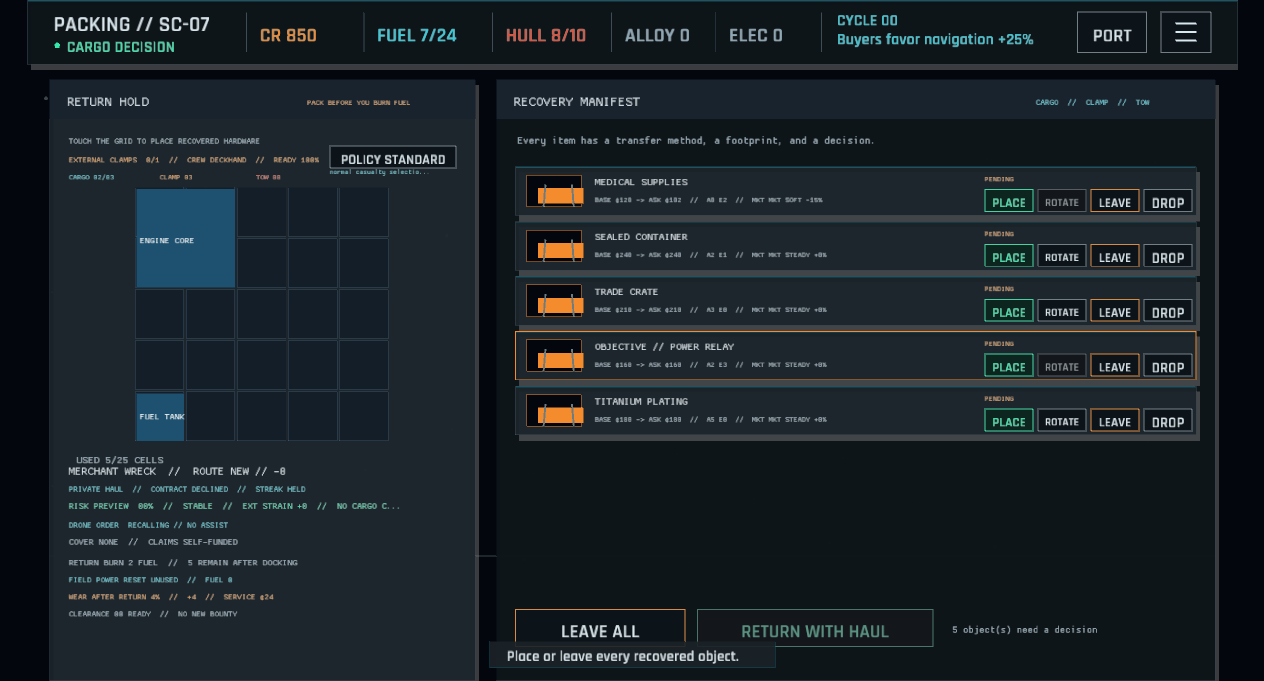
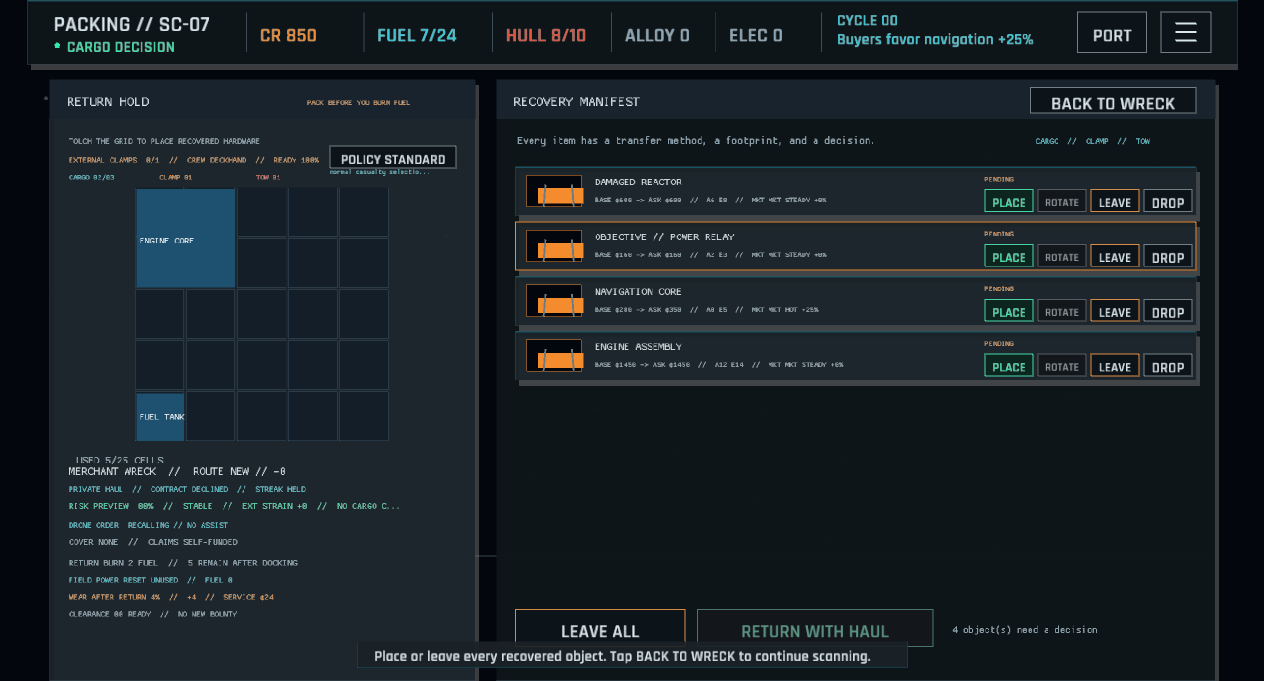
The manifest knows every mount, and the captain can turn back to the wreck (salvage roster and packing navigation)
The merchant wreck was advertising six candidate cargo items even though its physical sections contained four unique mounts, so scans and the recovery manifest told different stories. Align every site's manifest roster with its section targets, keep the full physical roster deterministic, and validate the invariant when authored content loads.\n\nAdd a visible BACK TO WRECK control to the packing manifest and route it back to the active salvage workspace, with touch-facing prompts for both directions. Refresh the affected capture scenes and verification screenshots. Formatting, all tests, strict all-target Clippy, and the parameterless publisher pass; Project Roost tracking remains unavailable at its local endpoint.

diff --git a/tests/state/session.rs b/tests/state/session.rs
@@ -14,12 +14,12 @@ fn new_game_has_a_valid_starter_layout_and_safe_economy() {
 }
 
 #[test]
-fn expedition_spends_fuel_and_generates_five_objects() {
+fn expedition_spends_fuel_and_generates_the_physical_wreck_roster() {
     let data = GameData::load().unwrap();
     let mut session = GameSession::new(&data);
     session.begin_expedition("merchant_wreck", &data).unwrap();
     assert_eq!(session.economy.fuel, 8);
-    assert_eq!(session.expedition.as_ref().unwrap().cargo.len(), 5);
+    assert_eq!(session.expedition.as_ref().unwrap().cargo.len(), 4);
 }
 
 #[test]
@@ -343,9 +343,9 @@ fn returned_external_cargo_count_matches_transfer_modes() {
 fn external_cargo_respects_clamp_capacity() {
     let data = GameData::load().unwrap();
     let mut session = GameSession::new(&data);
-    session.begin_expedition("merchant_wreck", &data).unwrap();
-    session.auto_place("sealed_container", &data).unwrap();
-    assert!(session.auto_place("trade_crate", &data).is_err());
+    session.begin_expedition("military_wreck", &data).unwrap();
+    session.auto_place("titanium_plating", &data).unwrap();
+    assert!(session.auto_place("military_crate", &data).is_err());
 }
 
 #[test]
@@ -626,10 +626,10 @@ fn revisiting_a_wreck_does_not_regenerate_removed_targets() {
 fn external_haul_raises_the_return_risk_preview() {
     let data = GameData::load().unwrap();
     let mut session = GameSession::new(&data);
-    session.begin_expedition("merchant_wreck", &data).unwrap();
+    session.begin_expedition("military_wreck", &data).unwrap();
     let before = session.expedition_risk_preview(&data).unwrap();
 
-    session.auto_place("sealed_container", &data).unwrap();
+    session.auto_place("titanium_plating", &data).unwrap();
 
     let after = session.expedition_risk_preview(&data).unwrap();
     assert_eq!(session.external_cargo_count(&data, None), 1);
@@ -643,29 +643,32 @@ fn external_haul_raises_the_return_risk_preview() {
 fn save_rejects_an_external_haul_over_clamp_capacity() {
     let data = GameData::load().unwrap();
     let mut session = GameSession::new(&data);
-    session.begin_expedition("merchant_wreck", &data).unwrap();
-    session.auto_place("sealed_container", &data).unwrap();
-    let trade_index = session
+    session.begin_expedition("military_wreck", &data).unwrap();
+    session.auto_place("titanium_plating", &data).unwrap();
+    let crate_index = session
         .expedition
         .as_ref()
         .unwrap()
         .cargo
         .iter()
-        .position(|cargo| cargo.object_id == "trade_crate")
+        .position(|cargo| cargo.object_id == "military_crate")
         .unwrap();
     session
         .ship_layout
         .place(
-            "cargo:trade_crate",
-            data.salvage_objects.get("trade_crate").unwrap().footprint,
-            GridPosition::new(2, 1),
+            "cargo:military_crate",
+            data.salvage_objects
+                .get("military_crate")
+                .unwrap()
+                .footprint,
+            GridPosition::new(3, 0),
             0,
             false,
         )
         .unwrap();
-    let trade = &mut session.expedition.as_mut().unwrap().cargo[trade_index];
-    trade.status = CargoStatus::Packed;
-    trade.position = Some(GridPosition::new(2, 1));
+    let crate_item = &mut session.expedition.as_mut().unwrap().cargo[crate_index];
+    crate_item.status = CargoStatus::Packed;
+    crate_item.position = Some(GridPosition::new(3, 0));
 
     let error = GameSession::from_save(session.to_save(&data.config.version), &data).unwrap_err();
 

diff --git a/src/game/capture/scenes/salvage.rs b/src/game/capture/scenes/salvage.rs
@@ -384,31 +384,6 @@ pub(super) fn prepare(game: &mut Game, scene: &str) -> GameState {
             game.session.briefing_voyage_plan = game.selected_voyage_plan;
             if let Some(progress) = game.session.site_progress.get_mut("merchant_wreck") {
                 progress.visits = 3;
-                progress.removed_targets = vec![
-                    "industrial_battery".to_owned(),
-                    "navigation_computer".to_owned(),
-                    "engine_assembly".to_owned(),
-                ];
-                progress.operation_log = vec![
-                    WorkspaceLogEntry::new(
-                        1,
-                        WorkspaceLogEvent::TargetRecovered,
-                        Some("cargo_bay"),
-                        Some("industrial_battery"),
-                    ),
-                    WorkspaceLogEntry::new(
-                        2,
-                        WorkspaceLogEvent::TargetRecovered,
-                        Some("cargo_bay"),
-                        Some("navigation_computer"),
-                    ),
-                    WorkspaceLogEntry::new(
-                        3,
-                        WorkspaceLogEvent::TargetRecovered,
-                        Some("cargo_bay"),
-                        Some("engine_assembly"),
-                    ),
-                ];
             }
             let _ = game.session.begin_expedition_with_plan(
                 "merchant_wreck",

diff --git a/src/data/validation.rs b/src/data/validation.rs
@@ -212,10 +212,8 @@ fn validate_sites(data: &GameData) -> Result<(), String> {
 
 fn validate_site(id: &str, site: &SiteData, data: &GameData) -> Result<(), String> {
     validate_site_overview(id, site, data)?;
-    if site.candidate_salvage.len() < 5 {
-        return Err(format!(
-            "site '{id}': needs at least five salvage candidates"
-        ));
+    if site.candidate_salvage.is_empty() {
+        return Err(format!("site '{id}': needs at least one salvage candidate"));
     }
     if site.sections.is_empty() {
         return Err(format!(
@@ -232,6 +230,23 @@ fn validate_site(id: &str, site: &SiteData, data: &GameData) -> Result<(), Strin
     }
     for section in &site.sections {
         validate_section(id, site, section, &section_ids, data)?;
+    }
+    validate_site_target_roster(id, site)?;
+    Ok(())
+}
+
+fn validate_site_target_roster(id: &str, site: &SiteData) -> Result<(), String> {
+    let manifest_targets: HashSet<&str> =
+        site.candidate_salvage.iter().map(String::as_str).collect();
+    let section_targets: HashSet<&str> = site
+        .sections
+        .iter()
+        .flat_map(|section| section.candidate_targets.iter().map(String::as_str))
+        .collect();
+    if manifest_targets != section_targets {
+        return Err(format!(
+            "site '{id}': manifest targets must match the physical section roster"
+        ));
     }
     Ok(())
 }

diff --git a/tests/engine/expedition.rs b/tests/engine/expedition.rs
@@ -2,6 +2,7 @@
 
 use crate::data::GameData;
 use crate::engine::expedition::generate_salvage;
+use std::collections::HashSet;
 
 #[test]
 fn contract_objective_is_always_in_the_generated_manifest() {
@@ -22,4 +23,20 @@ fn removed_targets_stay_out_of_future_manifests() {
     let manifest = generate_salvage(site, 7, &["industrial_battery".to_owned()]);
 
     assert!(!manifest.contains(&"industrial_battery".to_owned()));
+}
+
+#[test]
+fn generated_manifest_matches_every_physical_section_target() {
+    let data = GameData::load().unwrap();
+    for site in data.ordered_sites() {
+        let physical_targets: HashSet<&str> = site
+            .sections
+            .iter()
+            .flat_map(|section| section.candidate_targets.iter().map(String::as_str))
+            .collect();
+        let generated = generate_salvage(site, 7, &[]);
+        let manifest_targets: HashSet<&str> = generated.iter().map(String::as_str).collect();
+
+        assert_eq!(manifest_targets, physical_targets, "site {}", site.id);
+    }
 }

diff --git a/src/game/prompts.rs b/src/game/prompts.rs
@@ -10,8 +10,12 @@ pub fn state_prompt(state: GameState) -> &'static str {
             "Select a wreck. Tap Plan or Crew to cycle assignments, choose Insurance or Private haul, then Depart."
         }
         GameState::Travel => "Tap ARRIVE to enter the wreck workspace.",
-        GameState::SalvageWorkspace => "Tap SCAN or POWER CYCLE, then select a bracketed target.",
-        GameState::SalvagePacking => "Place or leave every recovered object.",
+        GameState::SalvageWorkspace => {
+            "Tap SCAN or POWER CYCLE, then select a bracketed target. Tap RETURN TO HOLD when done."
+        }
+        GameState::SalvagePacking => {
+            "Place or leave every recovered object. Tap BACK TO WRECK to continue scanning."
+        }
         GameState::ReturnTravel => "Tap DOCK NOW to enter the yard debrief.",
         GameState::Results => "Choose SELL, INSTALL, or BREAK DOWN.",
         GameState::Pause => "Tap RESUME to continue.",

diff --git a/tests/data/content.rs b/tests/data/content.rs
@@ -120,6 +120,22 @@ fn every_wreck_has_a_valid_contract_objective() {
 }
 
 #[test]
+fn every_wreck_manifest_matches_its_physical_target_roster() {
+    let data = GameData::load().unwrap();
+    for site in data.ordered_sites() {
+        let section_targets: std::collections::HashSet<&str> = site
+            .sections
+            .iter()
+            .flat_map(|section| section.candidate_targets.iter().map(String::as_str))
+            .collect();
+        let manifest_targets: std::collections::HashSet<&str> =
+            site.candidate_salvage.iter().map(String::as_str).collect();
+
+        assert_eq!(manifest_targets, section_targets, "site {}", site.id);
+    }
+}
+
+#[test]
 fn contract_targets_cannot_have_zero_payouts() {
     let mut data = GameData::load().unwrap();
     let mut site = data.sites.remove("merchant_wreck").unwrap();

diff --git a/src/engine/expedition.rs b/src/engine/expedition.rs
@@ -1,4 +1,4 @@
-//! Deterministic salvage selection from a site's data-defined candidate pool.
+//! Deterministic salvage selection from a site's data-defined physical roster.
 
 use crate::data::SiteData;
 
@@ -11,9 +11,8 @@ pub fn generate_salvage(site: &SiteData, seed: u64, removed_targets: &[String]) 
     if available.is_empty() {
         return Vec::new();
     }
-    let count = available.len().min(5);
     let start = (seed as usize) % available.len();
-    let mut generated: Vec<String> = (0..count)
+    let mut generated: Vec<String> = (0..available.len())
         .map(|index| available[(start + index) % available.len()].clone())
         .collect();
     if let Some(contract_target) = &site.contract_target {

diff --git a/src/ui/salvage_items/manifest.rs b/src/ui/salvage_items/manifest.rs
@@ -19,10 +19,19 @@ pub(super) fn draw_manifest(ctx: &UiContext<'_>, actions: &mut Vec<UiAction>) {
         18.0,
         visual_theme::text(),
     );
+    if button(
+        ctx,
+        Rect::new(manifest.right() - 196.0, manifest.y + 8.0, 176.0, 28.0),
+        &ctx.data.salvage_ui.back_to_wreck,
+        ctx.session.expedition.is_some(),
+        ButtonTone::Secondary,
+    ) {
+        actions.push(UiAction::ReturnToWorkspace);
+    }
     draw_text(
         "CARGO  //  CLAMP  //  TOW",
         manifest.right() - 190.0,
-        manifest.y + 27.0,
+        manifest.y + 68.0,
         11.0,
         visual_theme::cyan(),
     );

diff --git a/src/game/actions.rs b/src/game/actions.rs
@@ -175,6 +175,12 @@ impl Game {
                 }
                 Err(error) => self.note(error),
             },
+            UiAction::ReturnToWorkspace => {
+                if self.state == GameState::SalvagePacking && self.session.expedition.is_some() {
+                    self.transition(StateTransition::ToSalvageWorkspace);
+                    self.note("Back at the wreck. Scan another section or choose a target.");
+                }
+            }
             _ => return false,
         }
         true

diff --git a/tests/game/prompts.rs b/tests/game/prompts.rs
@@ -19,3 +19,10 @@ fn workspace_prompt_names_the_power_recovery_control() {
     assert!(prompt.contains("SCAN"));
     assert!(prompt.contains("POWER CYCLE"));
 }
+
+#[test]
+fn packing_prompt_names_the_visible_back_control() {
+    let prompt = state_prompt(GameState::SalvagePacking);
+
+    assert!(prompt.contains("BACK TO WRECK"));
+}

diff --git a/src/data/salvage_ui.rs b/src/data/salvage_ui.rs
@@ -13,6 +13,7 @@ pub struct SalvageUiCopy {
     pub stabilize: String,
     pub abandon: String,
     pub return_to_hold: String,
+    pub back_to_wreck: String,
     pub cancel: String,
     pub crew_tired: String,
     pub no_hazard: String,

diff --git a/src/ui.rs b/src/ui.rs
@@ -89,6 +89,7 @@ pub enum UiAction {
     Discard(String),
     LeaveAll,
     FinishPacking,
+    ReturnToWorkspace,
     Disposition(String, Disposition),
     SelectPortModule(String),
     TogglePortHold,
